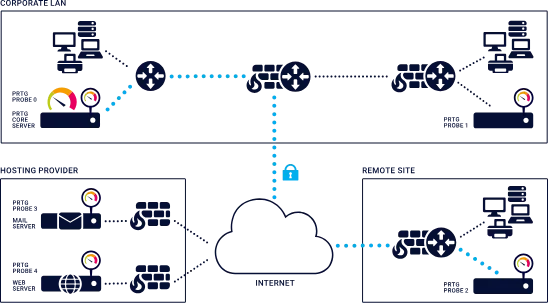
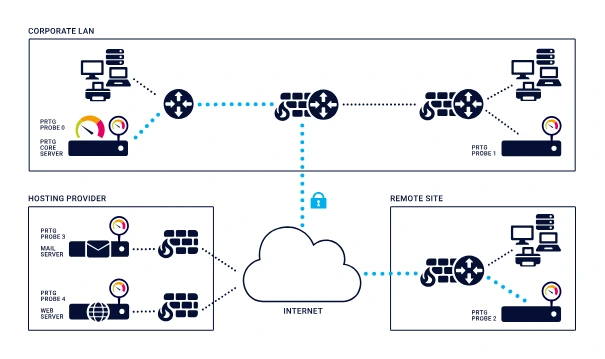
content(blog): generierte Inline-Grafiken entfernen, PRTG-Probes-Diagramm einsetzen
Die generierten Inline-Grafiken sind aus allen Artikeln raus (9 Referenzen,
9 Dateien geloescht). Einzige Ausnahme: der PRTG-Artikel bekommt das vom
Inhaber gelieferte Architekturdiagramm mit den Remote Probes.

Das Diagramm liegt transparent vor und waere im Dark Mode unsichtbar gewesen -
deshalb auf weissen Grund mit 28px Rand gelegt (605x359, 24 KB).

Changed region(s): [[0.0, 0.0, 1.0, 1.0]]

diff --git a/src/data/blogPosts.ts b/src/data/blogPosts.ts
@@ -66,7 +66,6 @@ Die Verschmelzung bringt erhebliche Cybersecurity-Herausforderungen:
 
 Für eine sichere IT/OT-Integration empfehlen wir:
 
-![Fünf nummerierte Massnahmen für eine sichere IT/OT-Integration: Netzwerk-Segmentierung, Firewall-Regeln, Monitoring, Notfallplan und Schulung](/images/blog-inline-it-trifft-ot.webp)
 
 - **Netzwerksegmentierung**: OT-Systeme in eigene VLANs isolieren
 - **Firewall-Regeln**: Nur notwendige Verbindungen erlauben
@@ -96,7 +95,6 @@ Die Anforderungen an Kontrollräume, Leitstände und sicherheitskritische Umgebu
 
 Mit **Black Box Emerald** steht eine moderne KVM-over-IP-Lösung zur Verfügung, die genau diese Anforderungen erfüllt – für Multiuser-Zugriff, 4K-Videoübertragung, USB-Routing und zentralisierte Steuerung.
 
-![Übersicht eines Black Box KVM-over-IP Multimonitor-Setups mit Transmittern, Receivern und Videowall im Kontrollraum](/images/blog-inline-multimonitor-systeme-black-box-emerald.webp)
 
 ### Vorteile von Black Box Emerald
 
@@ -164,7 +162,6 @@ Die Verbindung von 3CX mit Peoplefone bietet Unternehmen eine zuverlässige und 
 
 Die Kombination von 3CX und Peoplefone ist eine beliebte Lösung für Unternehmen, die auf moderne VoIP-Telefonie, Flexibilität und Kosteneffizienz setzen.
 
-![Fünf nummerierte Einrichtungsschritte für 3CX mit peoplefone: SIP-Trunk anlegen, Zugangsdaten eintragen, Rufnummern einrichten, ausgehende Regeln konfigurieren, Funktionstest](/images/blog-inline-moderne-telefonie-peoplefone-3cx.webp)
 
 ### 1. SIP-Trunk in 3CX anlegen
 Melde dich in der 3CX Management Console an. Unter dem Menüpunkt „SIP-Trunks" wählst du Peoplefone als Anbieter und gibst deine Hauptnummer ein.
@@ -224,7 +221,7 @@ Ob Server, Firewalls, Switches, Cloud-Dienste oder Internetverbindungen – mit 
 
 ### Erste Schritte – PRTG einrichten
 
-![Fünf nummerierte Einrichtungsschritte für PRTG: Installation, Auto-Discovery, Sensoren aktivieren, Dashboards anpassen, Alarme definieren](/images/blog-inline-prtg-netzwerkmonitoring.webp)
+![PRTG-Architektur mit Remote Probes: Core Server im Corporate LAN, Probe 0 und 1 lokal, Probe 2 am Remote-Standort, Probe 3 und 4 beim Hosting-Provider fuer Mail- und Webserver, verbunden ueber verschluesselte Internetverbindungen](/images/blog-inline-prtg-netzwerkmonitoring.webp)
 
 #### 1. Installation starten
 Lade PRTG von [paessler.com](https://www.paessler.com) herunter und installiere es auf einem Windows-Server oder einer virtuellen Maschine.
@@ -282,7 +279,6 @@ Wenn du noch ältere WAGO-Projekte (z.B. CODESYS 2.3 oder ältere Bibliotheken) 
 
 ### Schritt-für-Schritt-Anleitung: Migration auf CODESYS 3.5
 
-![Sieben nummerierte Migrationsschritte von Codesys 2.3 auf 3.5: Projektanalyse, Projektstruktur, Bibliotheken aktualisieren, Code übertragen, Visualisierung neu aufbauen, Testen, Dokumentation](/images/blog-inline-wago-codesys-migration.webp)
 
 #### 1. Projektanalyse
 Überprüfe deine bestehende CODESYS 2.3 Anwendung: Welche Bibliotheken werden verwendet? Gibt es veraltete Befehle, Visualisierungselemente oder proprietäre Erweiterungen?
